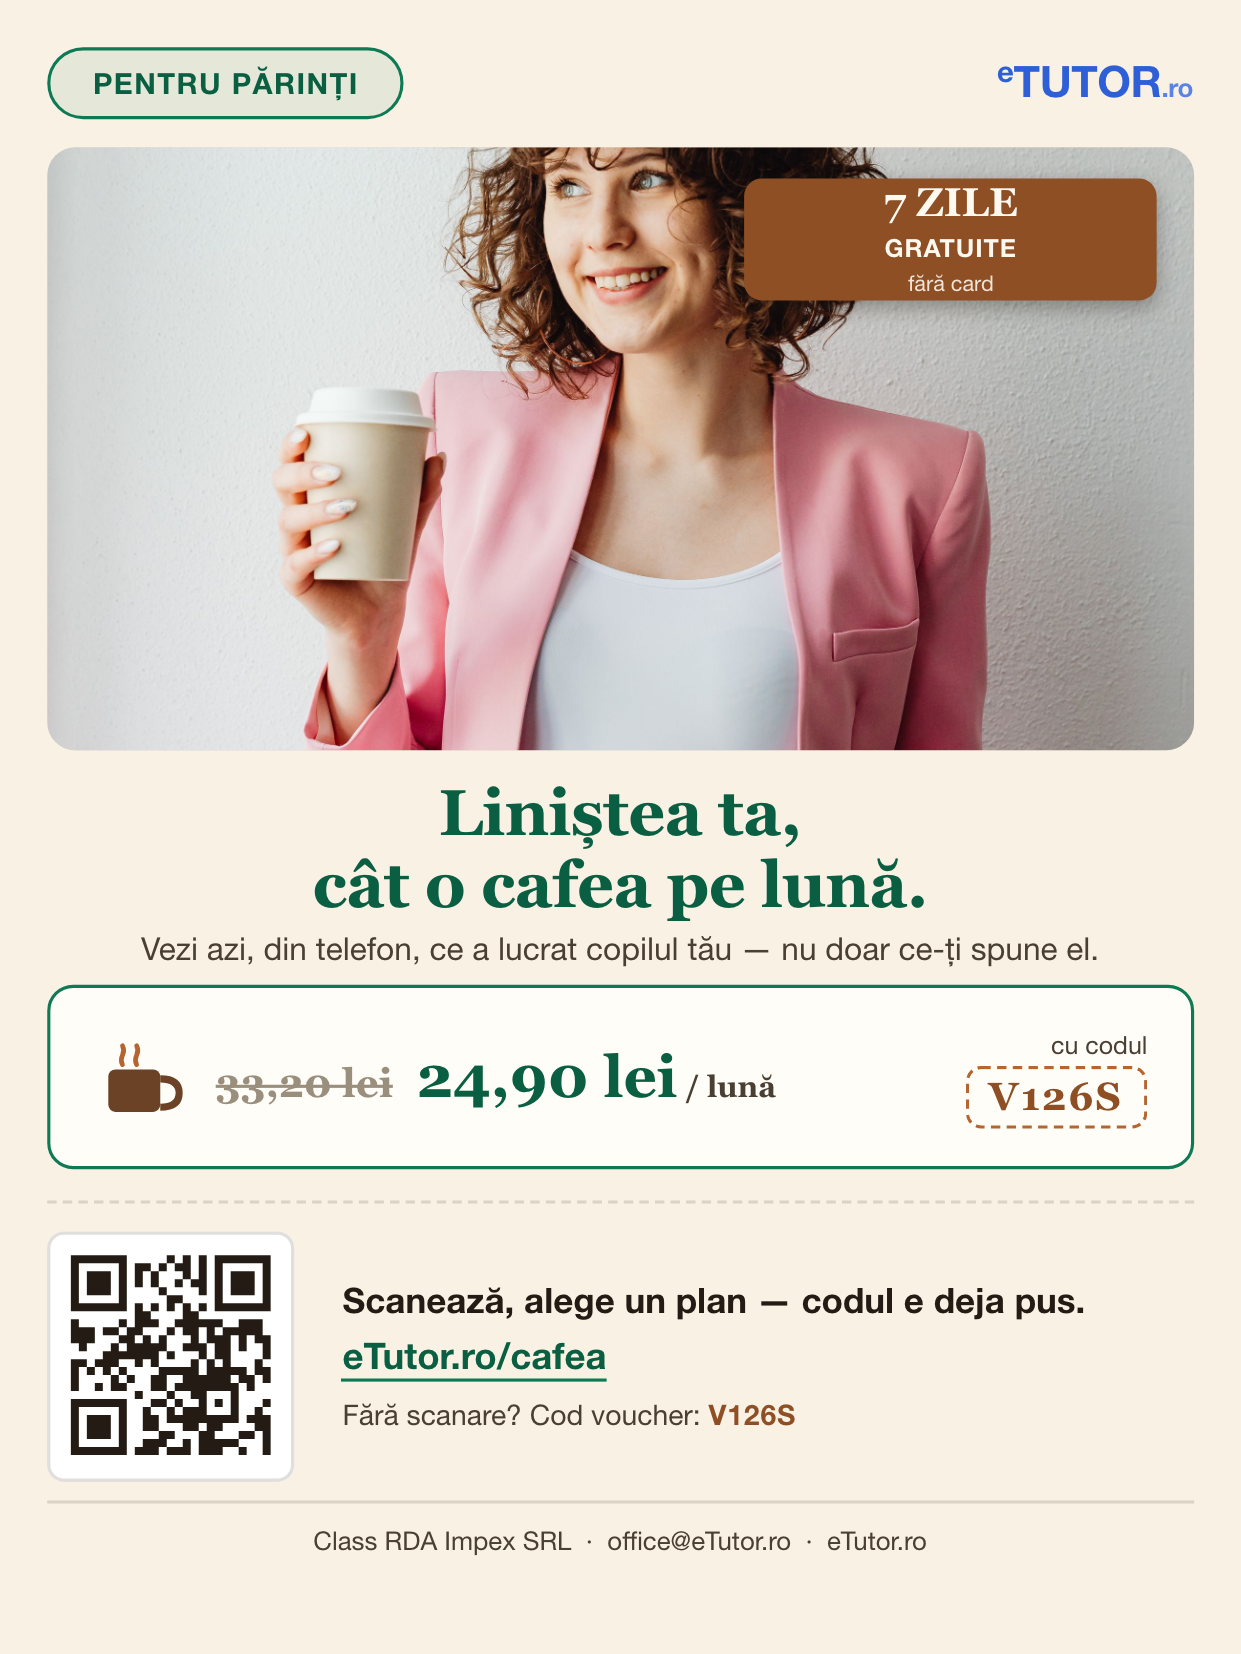
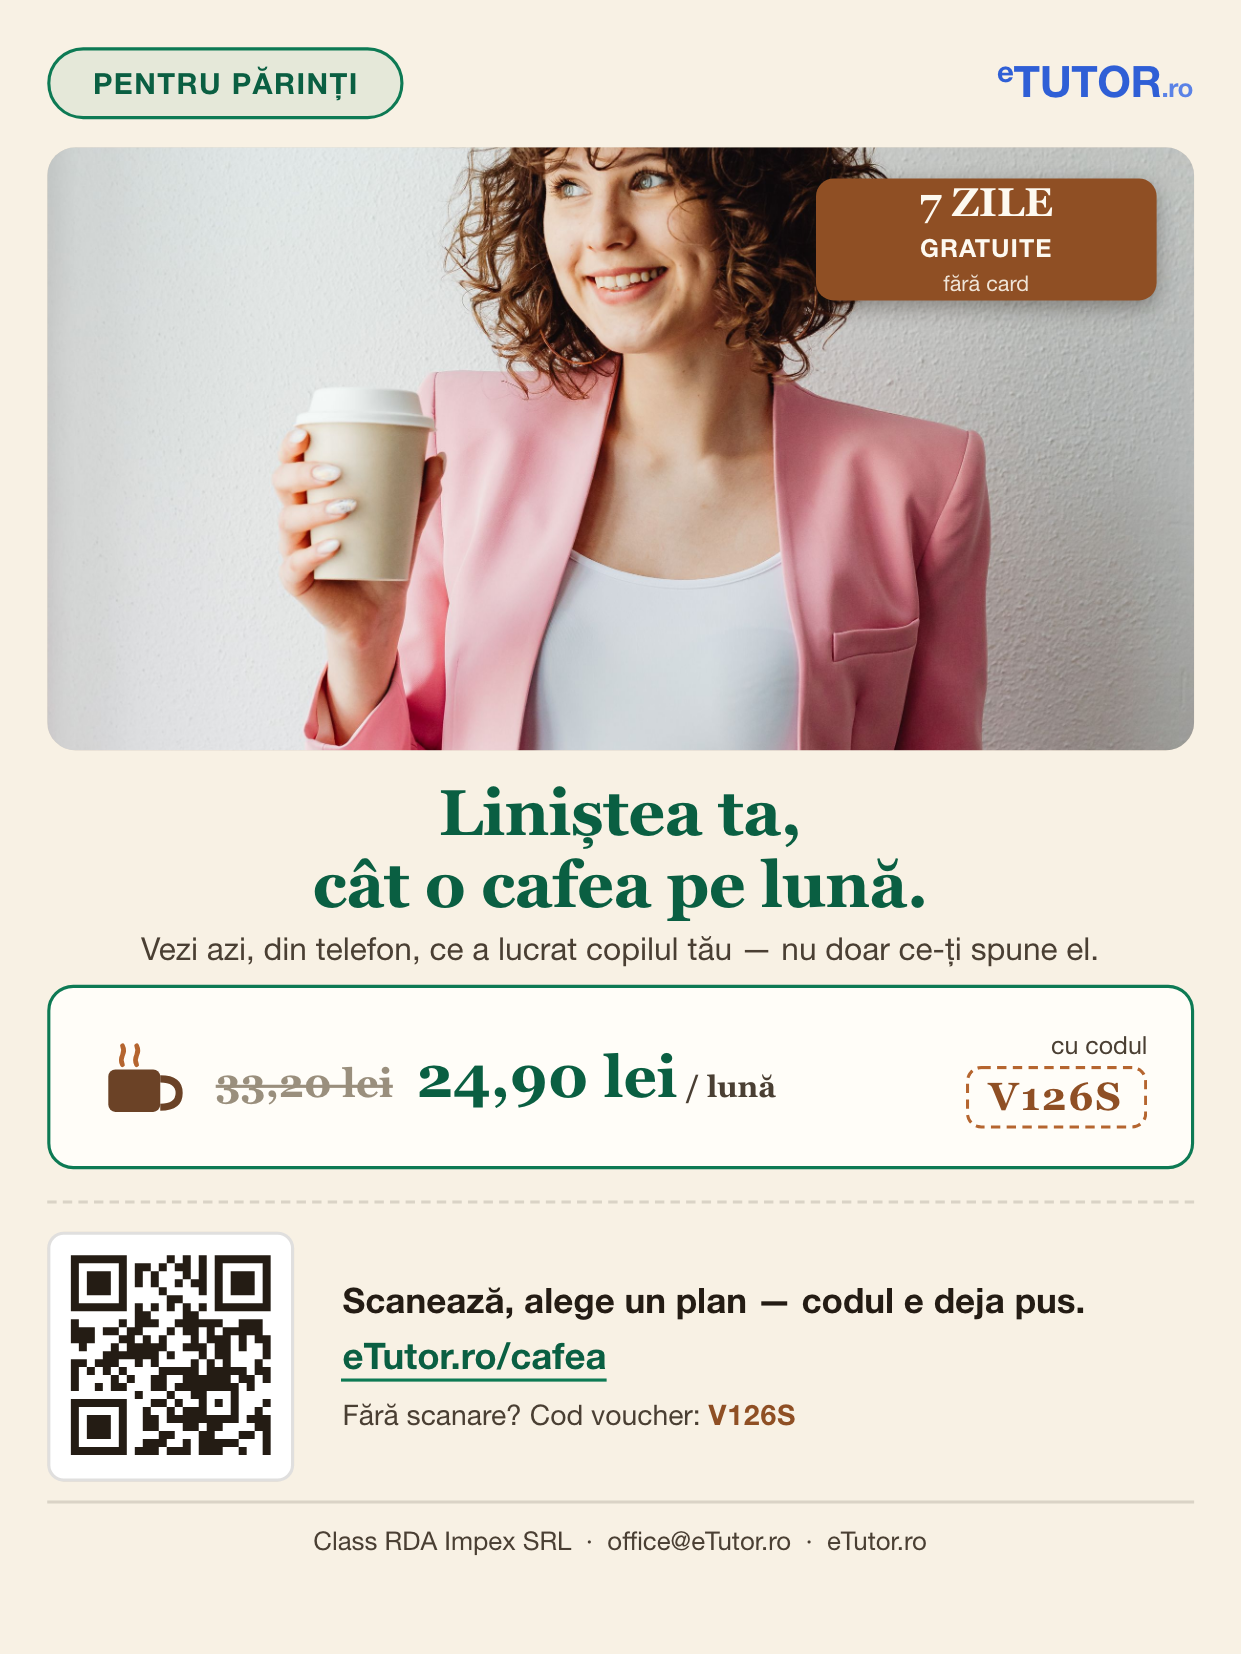
docs(flyer): v3.2 — trial badge nudged right + narrowed, clear of her hair

Changed region(s): [[0.7043, 0.0925, 0.8574, 0.185], [0.5818, 0.0925, 0.6737, 0.185]]

diff --git a/Reports/flyer-b2c-cafea-2026-09-15/flyer.html b/Reports/flyer-b2c-cafea-2026-09-15/flyer.html
@@ -74,7 +74,7 @@
 
   /* Ecusonul "7 ZILE GRATUITE" — dreptunghiular, pe colțul foto, sub brandmark. */
   .trial-badge {
-    position: absolute; left: 68mm; top: 20mm; width: 35mm; height: 10.5mm;
+    position: absolute; left: 74mm; top: 20mm; width: 29mm; height: 10.5mm;
     border-radius: 1.5mm;
     background: var(--terracotta-dark);
     box-shadow: 0 0.6mm 1.6mm rgba(36,28,20,0.35);
